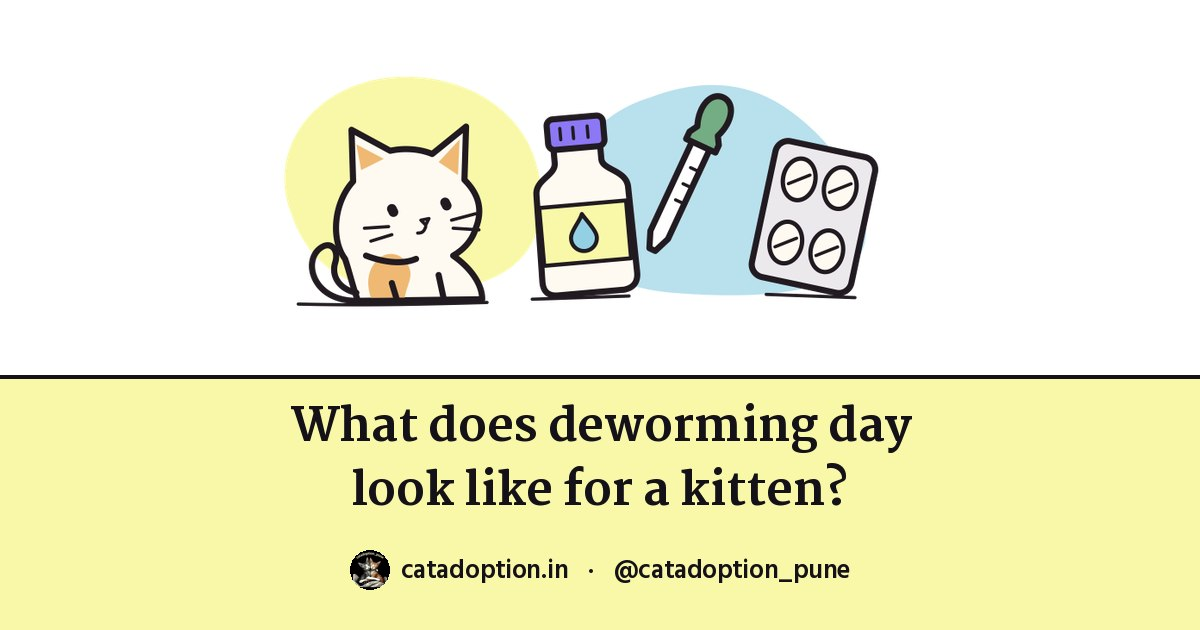
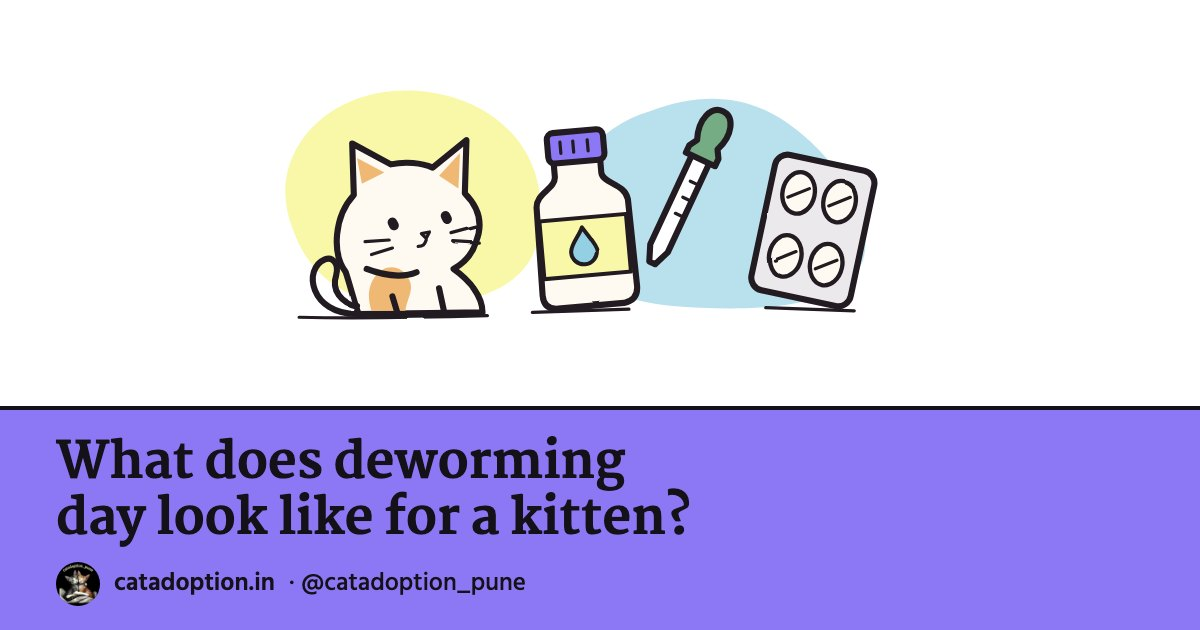
Site check 11-20, the owner's go: the cats' house sends phones a 1,000 px room picture (71 KB in place of 231; laptops and Enlarge keep the full one; 2.3 s locally); Learn's Deworming tile gets its own crop of the drawing (bottle and dropper); the deworming guide's top goes periwinkle like every gui

diff --git a/assets/house-scene.js b/assets/house-scene.js
@@ -19,7 +19,7 @@ if(id==='ropemat')return {crop:[191.5,79,208.5,139],caption:'Growlithe by the wa
 if(id==='lboard')return {crop:[238,105,147,98],caption:'Growlithe beside the L-board · pictured at the wall. Follow the seller’s fixing instructions.',name:'Somewhere tall to scratch',ground:193};
 return {crop:collection==='lounge'&&['tv','sofa'].includes(id)?[220,203,180,120]:[248,220,135,90],caption:'Growlithe for scale · the selected scratcher is beside him.',name:collection==='lounge'?'Their tiny living room':'Growlithe’s corner',ground:285};
 }
-function room(id='cafe',view='close',collection='cafe'){
+function room(id='cafe',view='close',collection='cafe',full=false){
 const cfg=config(id,collection), vb=view==='room'?[0,0,400,325]:cfg.crop;
 const floor=['pad','sisal','ropemat','lboard'].includes(id)?(collection==='everyday'?'couch':'cafe'):id;
 const lounge=collection==='lounge'&&['tv','sofa'].includes(id);
@@ -35,7 +35,7 @@ if(displayed==='sofa'||displayed==='couch')middle+=`<ellipse cx="${selectedX+pro
 if(displayed!=='ropemat')middle+=shadow(product(displayed),selectedX,selectedBottom);
 middle+=item(displayed,selectedX,selectedBottom,id);
 const catX=lounge?225:['lboard','ropemat'].includes(id)?278:255,catGround=cfg.ground;
-return {viewBox:vb,caption:cfg.caption,name:cfg.name,svg:`<svg xmlns="http://www.w3.org/2000/svg" viewBox="${vb.join(' ')}" role="group" aria-label="The cats’ illustrated house. ${cfg.caption}"><image href="${C.room.file}" x="0" y="0" width="400" height="325" preserveAspectRatio="xMidYMid slice"/>${item('sisal',28,186,id)}<image href="${C.cats.stretch.file}" x="19" y="116" width="32.7" height="78" preserveAspectRatio="xMidYMid meet" pointer-events="none"/>${view==='close'&&id==='sisal'?'':`<ellipse cx="160" cy="195.3" rx="22" ry="1.1" fill="#3d2f54" opacity=".26"/>${item('pad',139,195,id)}${cat('eevee',135,195-product('pad').height*Math.cos(rad)-.6)}`}${middle}<ellipse cx="${catX+24}" cy="${catGround+.4}" rx="20" ry="1" fill="#263d35" opacity=".27"/>${cat('growlithe',catX,catGround)}</svg>`};
+return {viewBox:vb,caption:cfg.caption,name:cfg.name,svg:`<svg xmlns="http://www.w3.org/2000/svg" viewBox="${vb.join(' ')}" role="group" aria-label="The cats’ illustrated house. ${cfg.caption}"><image href="${full||!matchMedia('(max-width:620px)').matches?C.room.file:C.room.phoneFile}" x="0" y="0" width="400" height="325" preserveAspectRatio="xMidYMid slice"/>${item('sisal',28,186,id)}<image href="${C.cats.stretch.file}" x="19" y="116" width="32.7" height="78" preserveAspectRatio="xMidYMid meet" pointer-events="none"/>${view==='close'&&id==='sisal'?'':`<ellipse cx="160" cy="195.3" rx="22" ry="1.1" fill="#3d2f54" opacity=".26"/>${item('pad',139,195,id)}${cat('eevee',135,195-product('pad').height*Math.cos(rad)-.6)}`}${middle}<ellipse cx="${catX+24}" cy="${catGround+.4}" rx="20" ry="1" fill="#263d35" opacity=".27"/>${cat('growlithe',catX,catGround)}</svg>`};
 }
 function compare(a,b){const pa=product(a),pb=product(b),ha=height(pa),hb=height(pb);const catW=C.cats.growlithe.widthPx/32;const wa=Math.max(pa.width,58),wb=Math.max(pb.width,58),gap=12;const w=catW+wa+wb+gap*4,ground=Math.max(ha,hb,36)+16,h=ground+14;const xa=catW+gap*2+(wa-pa.width)/2,xb=catW+wa+gap*3+(wb-pb.width)/2;
 return `<svg xmlns="http://www.w3.org/2000/svg" viewBox="0 0 ${w} ${h}" role="img" aria-label="Growlithe beside ${pa.shortName} and ${pb.shortName}, at one illustrated scale"><rect width="${w}" height="${h}" fill="#faf7f0"/><path d="M8 ${ground+1}H${w-8}" stroke="#a6946a" stroke-width=".5"/>${cat('growlithe',gap,ground)}${shadow(pa,xa,ground)}${art(pa,xa,ground)}${shadow(pb,xb,ground)}${art(pb,xb,ground)}</svg>`;

diff --git a/learn.html b/learn.html
@@ -74,7 +74,7 @@
     <a href="#day-one" data-goatcounter-click="learn-jump/day-one"><span class="t-ico"><img class="ph" src="assets/shelf/tile-day-one.webp" alt="" width="44" height="44"></span>Day one</a>
     <a href="#food" data-goatcounter-click="learn-jump/food"><span class="t-ico"><img src="assets/art/ico-bowl.svg" alt="" width="44" height="44"></span>Food</a>
     <a href="#litter" data-goatcounter-click="learn-jump/litter"><span class="t-ico"><img src="assets/art/ico-litter.svg" alt="" width="44" height="44"></span>Litter</a>
-    <a href="#deworming" data-goatcounter-click="learn-jump/deworming"><span class="t-ico"><img src="assets/deworming-kittens-card.svg" alt="" width="44" height="44"></span>Deworming</a>
+    <a href="#deworming" data-goatcounter-click="learn-jump/deworming"><span class="t-ico"><img src="assets/deworming-tile.svg" alt="" width="44" height="44"></span>Deworming</a>
     <a href="#vet" data-goatcounter-click="learn-jump/vet"><span class="t-ico"><img src="assets/art/ico-vet.svg" alt="" width="44" height="44"></span>Vet</a>
     <a href="#settling" data-goatcounter-click="learn-jump/settling"><span class="t-ico"><img src="assets/art/ico-settle.svg" alt="" width="44" height="44"></span>Settling in</a>
     <a href="#indies" data-goatcounter-click="learn-jump/indies"><span class="t-ico"><img src="assets/art/ico-indie.svg" alt="" width="44" height="44"></span>Indie myths</a>

diff --git a/cats-house.html b/cats-house.html
@@ -15,7 +15,8 @@
 <meta name="twitter:card" content="summary_large_image">
 <link rel="preload" href="assets/fonts/hind-400-latin.woff2" as="font" type="font/woff2" crossorigin>
 <link rel="preload" href="assets/fonts/martel-700-latin.woff2" as="font" type="font/woff2" crossorigin>
-<link rel="preload" href="assets/scratching/house/bedroom-02.webp" as="image" fetchpriority="high">
+<link rel="preload" href="assets/scratching/house/bedroom-02-1000.webp" as="image" fetchpriority="high" media="(max-width: 620px)">
+<link rel="preload" href="assets/scratching/house/bedroom-02.webp" as="image" fetchpriority="high" media="(min-width: 621px)">
 <link rel="stylesheet" href="assets/style.css?v=d71ffe57">
 <link rel="stylesheet" href="assets/house.css">
 <script defer src="assets/house-catalog.js"></script><script defer src="assets/house-scene.js"></script><script defer src="assets/house.js"></script>

diff --git a/assets/house-catalog.js b/assets/house-catalog.js
@@ -2,7 +2,7 @@
 window.SCRATCHER={
   cameraDegrees:20,
   mattress:{width:152,depth:198,height:55},
-  room:{file:'assets/scratching/house/bedroom-02.webp',bedYawDegrees:12,widthCm:400,heightCm:325},
+  room:{file:'assets/scratching/house/bedroom-02.webp',phoneFile:'assets/scratching/house/bedroom-02-1000.webp',bedYawDegrees:12,widthCm:400,heightCm:325},
   cats:{
     eevee:{file:'assets/scratching/cats/eevee-stand.webp',widthPx:2354,heightPx:1205,pixelsPerCm:32,groundPx:(864-10)*1.3962928494596583,shoulderCm:28},
     growlithe:{file:'assets/scratching/cats/growlithe-stand.webp',widthPx:1729,heightPx:972,pixelsPerCm:32,groundPx:(877-5)*1.0967840923458627,shoulderCm:24},

diff --git a/deworming-kittens-pune.html b/deworming-kittens-pune.html
@@ -59,7 +59,7 @@
   </nav>
 </header>
 
-<section class="page-hero page-hero--butter page-hero--compact page-hero--art">
+<section class="page-hero page-hero--peri page-hero--compact page-hero--art">
   <p class="crumb"><a href="./">Home</a> › <a href="learn.html">Cat care</a> › Kitten deworming</p>
   <h1>What does <span class="hl">deworming day</span> look like for a kitten?</h1>
   <p class="sub">A little bottle for a rescued kitten, a strip of tablets for my grown cats, and why the vet rang me at eight in the morning.</p>

diff --git a/assets/house.js b/assets/house.js
@@ -95,7 +95,7 @@
     setZoomBox();
   }
   $('enlarge').addEventListener('click',()=>{
-    const room=scene.room(selected,view,collection); $('large-stage').innerHTML=room.svg;
+    const room=scene.room(selected,view,collection,true); $('large-stage').innerHTML=room.svg;
     $('large-product-info').textContent=current().shortName+' · '+status(current())+' · '+dimensionLine(current());
     baseBox=[...room.viewBox]; zoomBox=[...baseBox]; zoom=1;
     openDialog('large-dialog'); setZoomBox();
